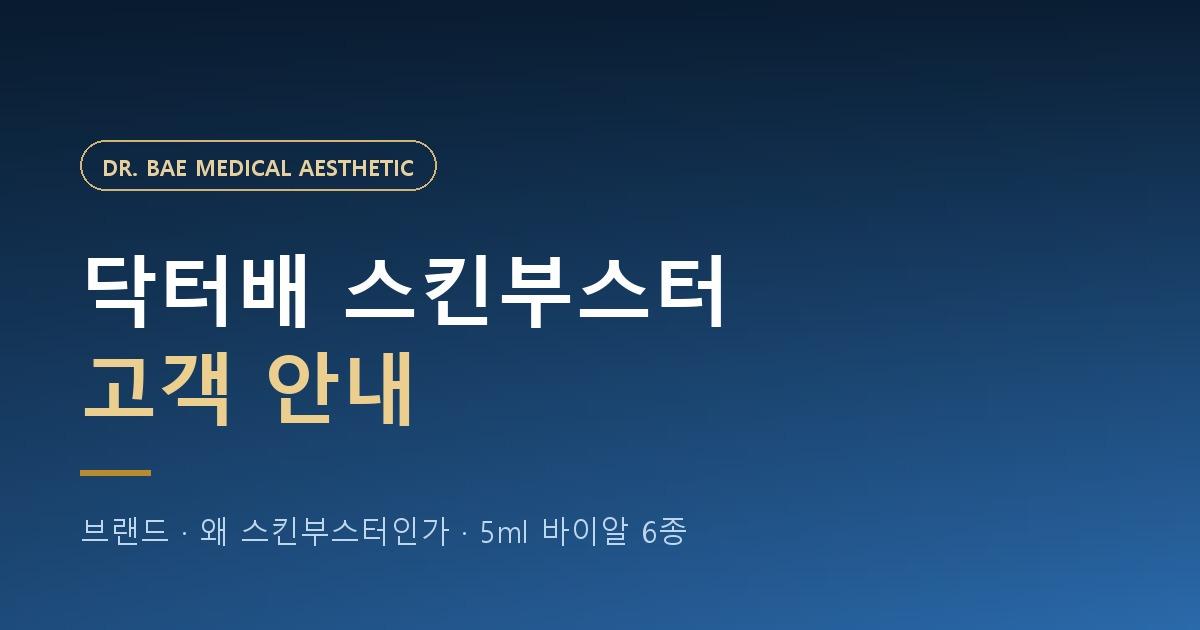
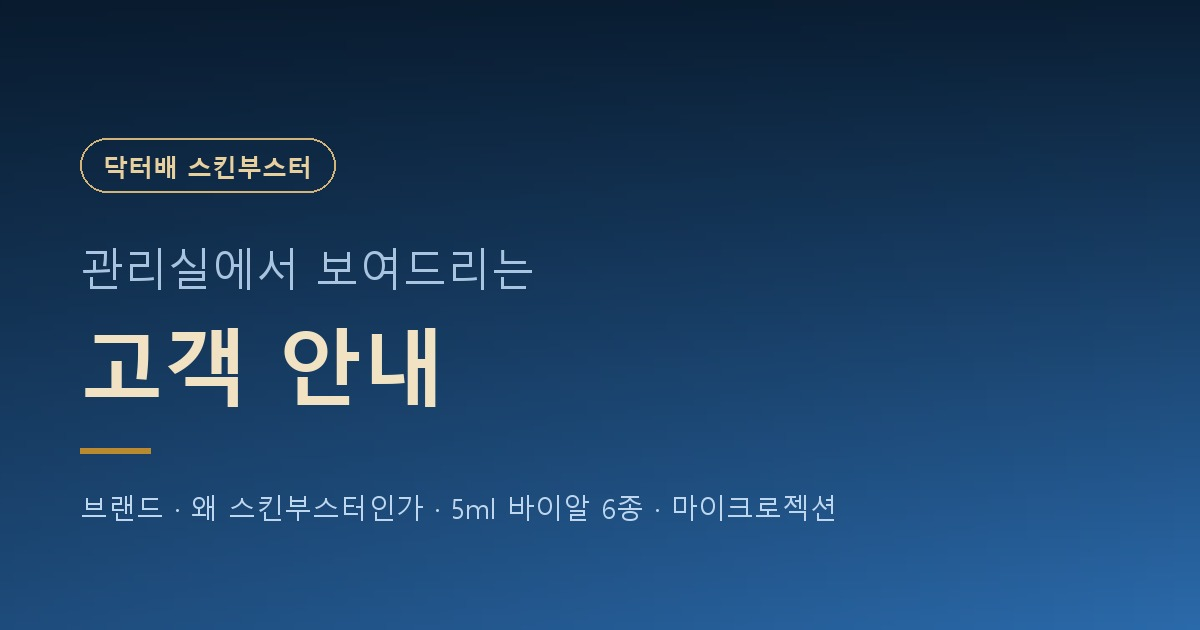
브랜드 표기를 '닥터배 스킨부스터'로 통일, OG·썸네일 이미지 재생성

Changed region(s): [[0.0617, 0.3921, 0.6167, 0.6937], [0.0617, 0.6937, 0.7092, 0.8746], [0.0617, 0.2111, 0.37, 0.3317]]

diff --git a/index.html b/index.html
@@ -8,7 +8,7 @@
 <meta name="description" content="관리실에서 고객님께 보여드리는 닥터배 브랜드 · 스킨부스터 안내. 대학 연구실에서 시작된 브랜드와 5ml 바이알 스킨부스터 6종.">
 
 <meta property="og:type" content="website">
-<meta property="og:site_name" content="DR.BAE">
+<meta property="og:site_name" content="닥터배 스킨부스터">
 <meta property="og:locale" content="ko_KR">
 <meta property="og:url" content="https://baelab-create.github.io/drbae-customer/">
 <meta property="og:title" content="닥터배 스킨부스터 — 고객 안내">
@@ -138,7 +138,7 @@ img{max-width:100%;display:block;}
 .nav-in{display:flex;align-items:center;gap:14px;height:64px;}
 .brandmark{
   display:flex;align-items:center;gap:8px;flex:0 0 auto;
-  font-weight:800;font-size:.9rem;letter-spacing:.14em;color:var(--navy);
+  font-weight:800;font-size:.95rem;letter-spacing:.01em;color:var(--navy);
 }
 .brandmark i{width:7px;height:7px;border-radius:50%;background:var(--gold);display:block;}
 .nav-links{
@@ -507,8 +507,8 @@ footer{
   padding:48px 0 52px;font-size:.9rem;line-height:1.85;
 }
 footer .fm{
-  display:inline-flex;align-items:center;gap:9px;font-weight:800;font-size:1.02rem;
-  letter-spacing:.16em;color:#fff;margin-bottom:12px;
+  display:inline-flex;align-items:center;gap:9px;font-weight:800;font-size:1.08rem;
+  letter-spacing:.02em;color:#fff;margin-bottom:12px;
 }
 footer .fm i{width:7px;height:7px;border-radius:50%;background:var(--gold-lt);display:block;}
 footer .fl{width:40px;height:1px;background:rgba(255,255,255,.2);margin:20px auto;}
@@ -561,7 +561,7 @@ footer .fs{color:#7796b4;font-size:.82rem;}
 <!-- ============================== NAV ============================== -->
 <nav class="nav">
   <div class="wrap nav-in">
-    <span class="brandmark"><i></i>DR.BAE</span>
+    <span class="brandmark"><i></i>닥터배</span>
     <div class="nav-links">
       <button type="button" data-go="s1">브랜드</button>
       <button type="button" data-go="s2">왜 스킨부스터</button>
@@ -1714,7 +1714,7 @@ footer .fs{color:#7796b4;font-size:.82rem;}
 
 <footer>
   <div class="wrap">
-    <span class="fm"><i></i>DR. BAE</span>
+    <span class="fm"><i></i>닥터배 스킨부스터</span>
     <p>㈜배랩 &nbsp;·&nbsp; 숭실대학교 의공학 연구실 (배원규 교수)</p>
     <div class="fl"></div>
     <p class="fs">
